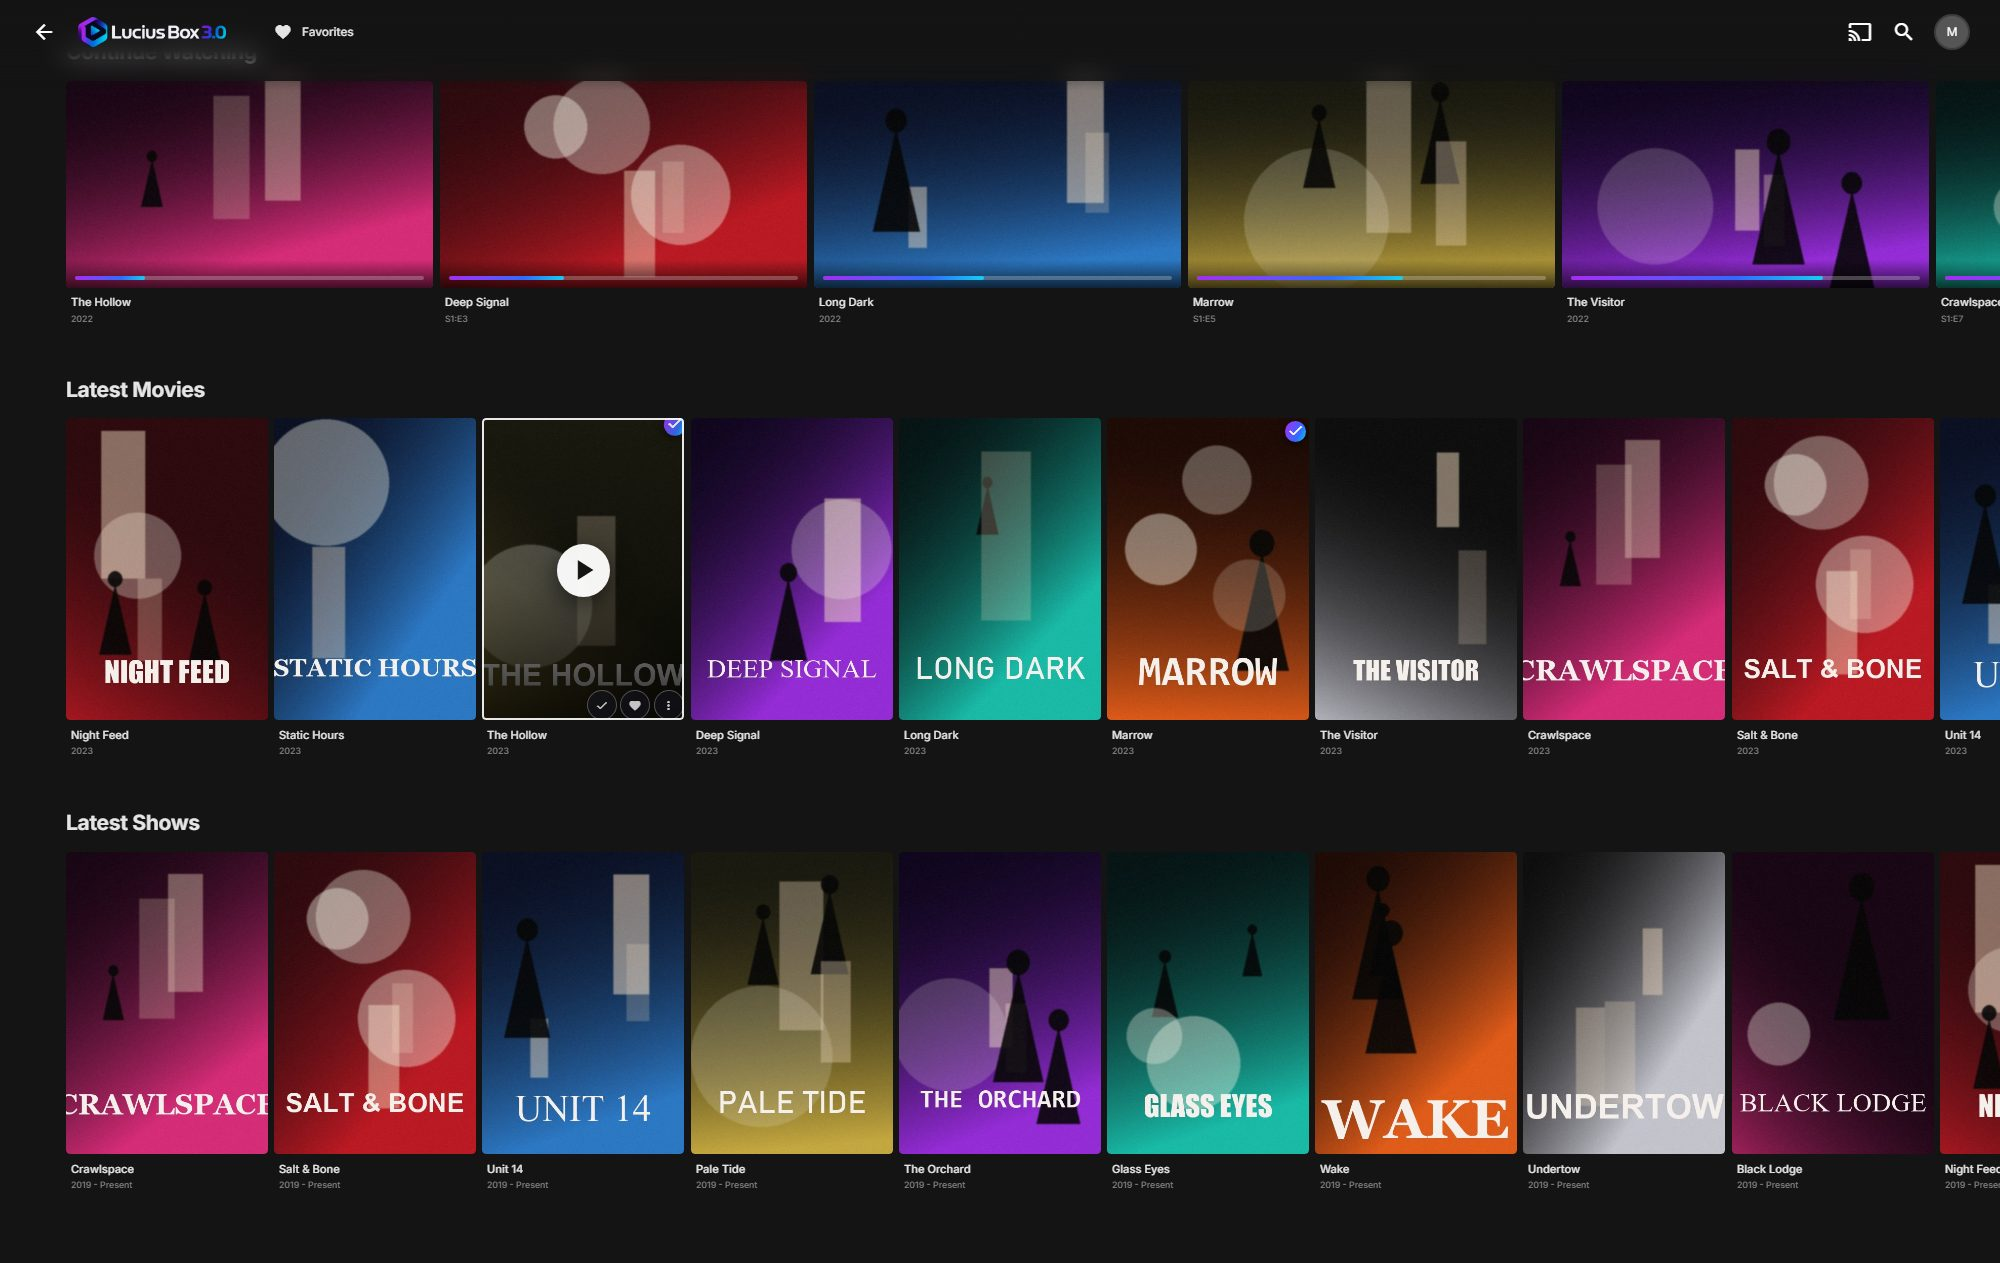
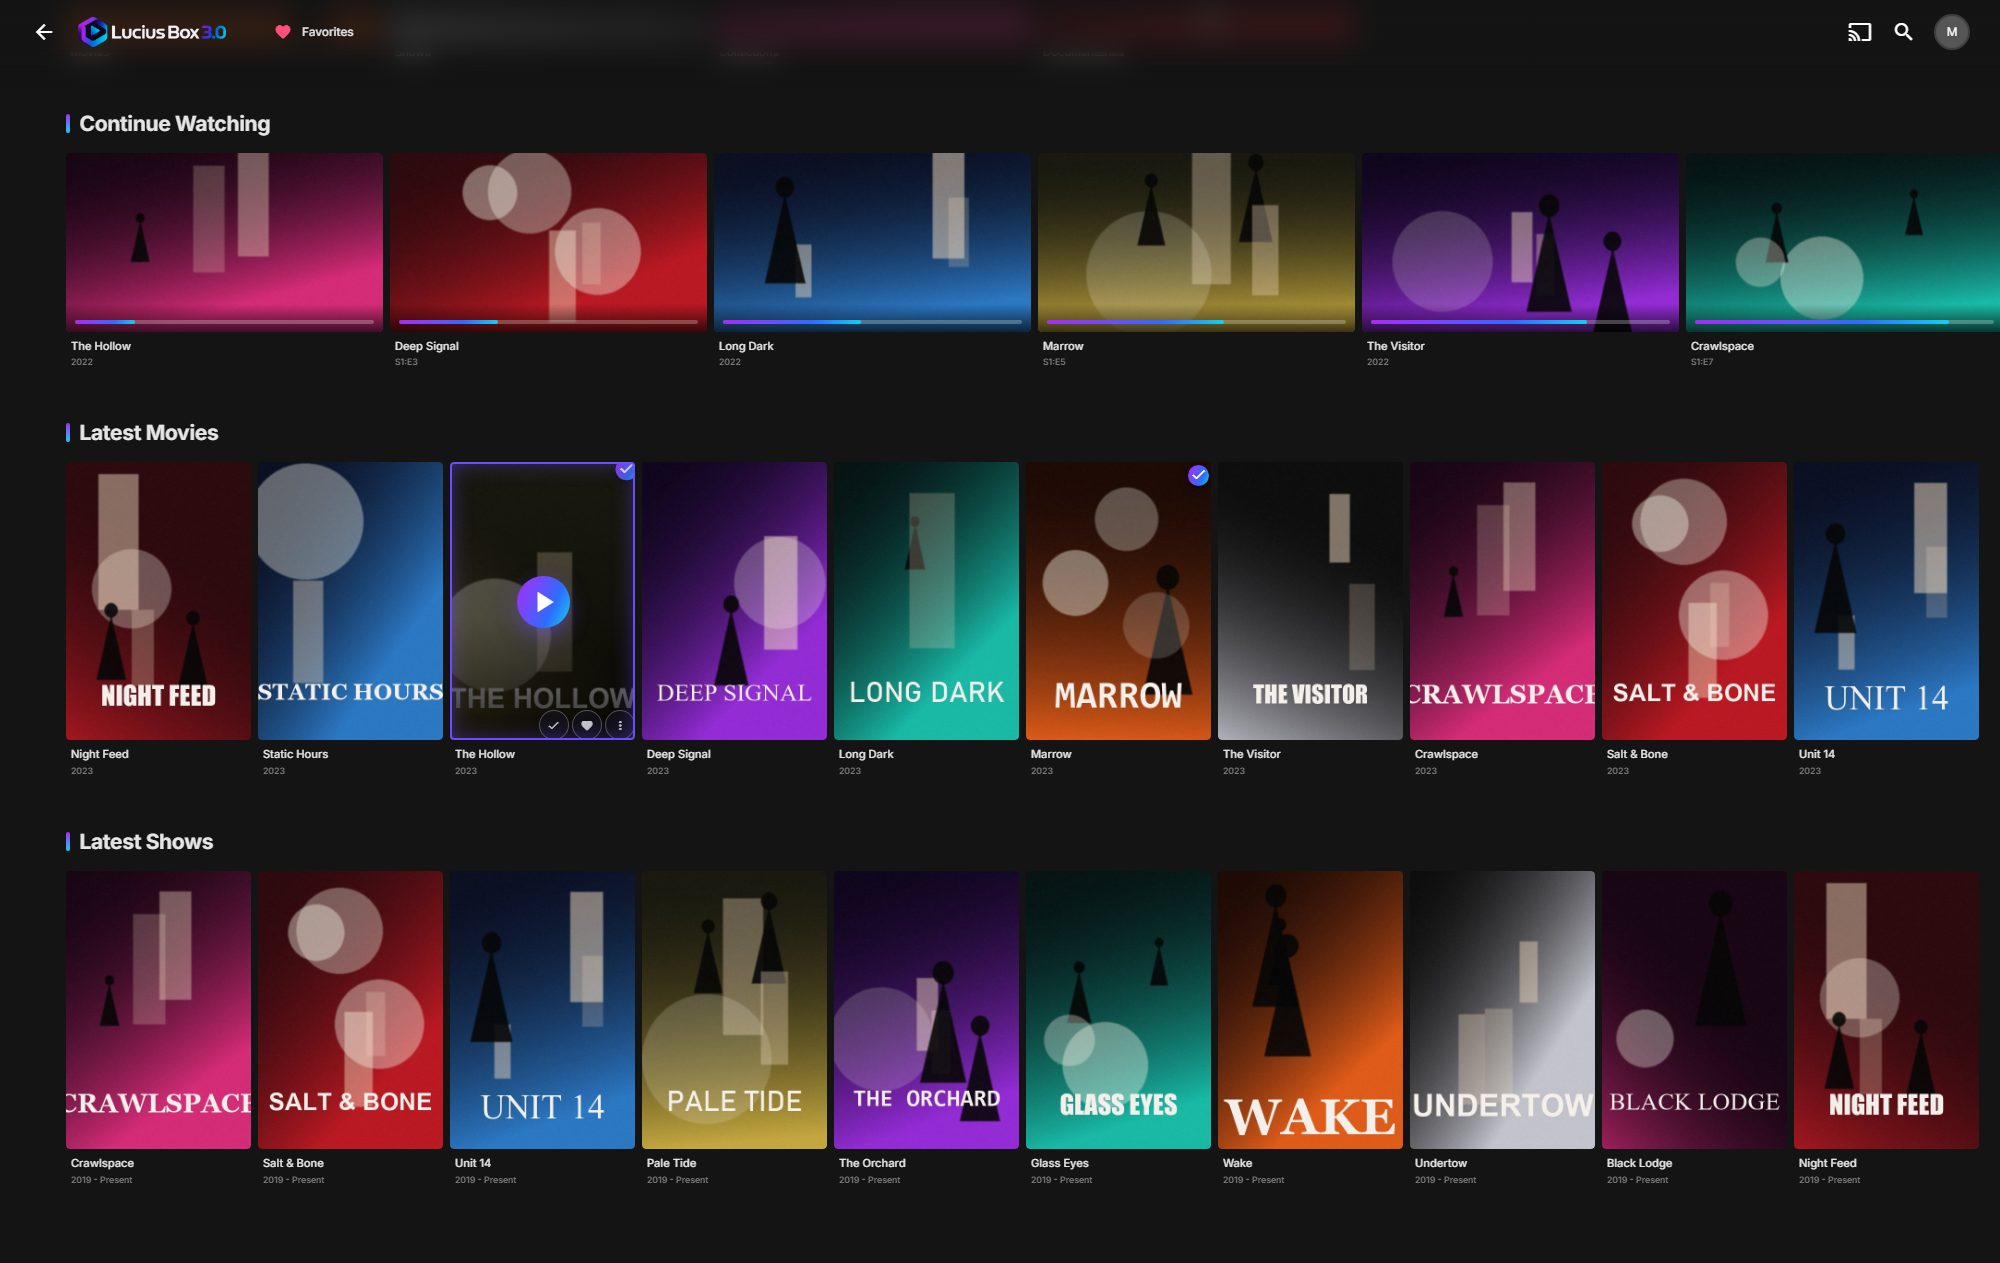
Smaller streaming-style cards, visible brand colour, no page backdrops
Rows show more, smaller cards. Jellyfin's blurred page backdrops are off
so the black stays flat. Purple/cyan now shows on play buttons, the hover
frame, row-title ticks, the active page and the scrollbar.

diff --git a/dist/luciusbox.css b/dist/luciusbox.css
@@ -1597,3 +1597,117 @@ a[data-role="button"]:hover {
     font-weight: 500;
     color: var(--lb-text);
 }
+
+/* ===========================================================================
+ * 15. Streaming-app sizing and brand colour
+ * ======================================================================== */
+
+/* Flat black behind everything: Jellyfin's page backdrops (the blurred movie
+   art behind the home screen) are switched off. Item pages keep their own. */
+.backdropContainer {
+    display: none !important;
+}
+
+.backgroundContainer.withBackdrop {
+    opacity: 1 !important;
+}
+
+/* Smaller cards, more per row, like a streaming app */
+.layout-desktop .overflowBackdropCard {
+    width: clamp(240px, 16.2vw, 380px) !important;
+}
+
+.layout-desktop .overflowPortraitCard:not(.personCard) {
+    width: clamp(140px, 9.6vw, 230px) !important;
+}
+
+.layout-desktop .overflowSquareCard {
+    width: clamp(140px, 10vw, 230px) !important;
+}
+
+/* Brand colour where it counts */
+
+/* Hover: a purple-to-cyan frame with a soft inner glow */
+@media (hover: hover) and (pointer: fine) {
+    .card:hover .cardScalable::after {
+        box-shadow: inset 0 0 0 2px var(--lb-violet), inset 0 0 22px rgba(109, 76, 255, 0.45) !important;
+    }
+}
+
+.card:focus-visible .cardScalable::after,
+.card.show-focus:focus .cardScalable::after,
+.layout-tv .card:focus .cardScalable::after {
+    box-shadow: inset 0 0 0 3px var(--lb-cyan), inset 0 0 22px rgba(20, 208, 240, 0.4) !important;
+}
+
+/* Play buttons: the logo's gradient */
+.cardOverlayFab-primary,
+.mainDetailButtons .btnPlay {
+    background: var(--lb-gradient) !important;
+    color: #fff !important;
+    box-shadow: 0 8px 24px -6px rgba(109, 76, 255, 0.7) !important;
+}
+
+.cardOverlayFab-primary .cardOverlayButtonIcon,
+.mainDetailButtons .btnPlay .detailButton-icon,
+.mainDetailButtons .btnPlay .detailButton-content {
+    color: #fff !important;
+}
+
+.cardOverlayFab-primary:hover,
+.mainDetailButtons .btnPlay:hover {
+    background: var(--lb-gradient) !important;
+    filter: brightness(1.15);
+}
+
+/* Round buttons light up in brand colour */
+.detailButton:hover {
+    border-color: var(--lb-cyan) !important;
+    color: var(--lb-cyan) !important;
+}
+
+.cardOverlayButton-br .cardOverlayButton:hover {
+    background: var(--lb-violet) !important;
+    border-color: var(--lb-violet) !important;
+}
+
+.cardOverlayButton-br .cardOverlayButton:hover .cardOverlayButtonIcon {
+    color: #fff !important;
+}
+
+/* Header: Favorites and the active page get a gradient underline */
+.MuiAppBar-root .MuiStack-root > a.MuiButton-root[href*="tab=1"] .MuiButton-startIcon {
+    color: #ff4d7d;
+}
+
+.MuiAppBar-root .MuiButton-textPrimary,
+.MuiAppBar-root .MuiButton-colorPrimary {
+    background-image: var(--lb-gradient) !important;
+    background-size: 100% 2px !important;
+    background-position: 0 100% !important;
+    background-repeat: no-repeat !important;
+    border-radius: 0 !important;
+}
+
+/* Row titles: a small gradient tick in front */
+.sectionTitle-cards::before {
+    content: "";
+    display: inline-block;
+    width: 4px;
+    height: 0.9em;
+    margin-right: 0.45em;
+    vertical-align: -0.08em;
+    border-radius: 2px;
+    background: linear-gradient(var(--lb-purple), var(--lb-cyan));
+}
+
+#loginPage .sectionTitle-cards::before,
+.layout-tv .sectionTitle-cards::before {
+    display: none;
+}
+
+/* Scrollbar thumb in brand colour */
+::-webkit-scrollbar-thumb {
+    background: linear-gradient(var(--lb-purple), var(--lb-cyan)) !important;
+    background-clip: padding-box !important;
+}

diff --git a/src/luciusbox.css b/src/luciusbox.css
@@ -1597,3 +1597,117 @@ a[data-role="button"]:hover {
     font-weight: 500;
     color: var(--lb-text);
 }
+
+/* ===========================================================================
+ * 15. Streaming-app sizing and brand colour
+ * ======================================================================== */
+
+/* Flat black behind everything: Jellyfin's page backdrops (the blurred movie
+   art behind the home screen) are switched off. Item pages keep their own. */
+.backdropContainer {
+    display: none !important;
+}
+
+.backgroundContainer.withBackdrop {
+    opacity: 1 !important;
+}
+
+/* Smaller cards, more per row, like a streaming app */
+.layout-desktop .overflowBackdropCard {
+    width: clamp(240px, 16.2vw, 380px) !important;
+}
+
+.layout-desktop .overflowPortraitCard:not(.personCard) {
+    width: clamp(140px, 9.6vw, 230px) !important;
+}
+
+.layout-desktop .overflowSquareCard {
+    width: clamp(140px, 10vw, 230px) !important;
+}
+
+/* Brand colour where it counts */
+
+/* Hover: a purple-to-cyan frame with a soft inner glow */
+@media (hover: hover) and (pointer: fine) {
+    .card:hover .cardScalable::after {
+        box-shadow: inset 0 0 0 2px var(--lb-violet), inset 0 0 22px rgba(109, 76, 255, 0.45) !important;
+    }
+}
+
+.card:focus-visible .cardScalable::after,
+.card.show-focus:focus .cardScalable::after,
+.layout-tv .card:focus .cardScalable::after {
+    box-shadow: inset 0 0 0 3px var(--lb-cyan), inset 0 0 22px rgba(20, 208, 240, 0.4) !important;
+}
+
+/* Play buttons: the logo's gradient */
+.cardOverlayFab-primary,
+.mainDetailButtons .btnPlay {
+    background: var(--lb-gradient) !important;
+    color: #fff !important;
+    box-shadow: 0 8px 24px -6px rgba(109, 76, 255, 0.7) !important;
+}
+
+.cardOverlayFab-primary .cardOverlayButtonIcon,
+.mainDetailButtons .btnPlay .detailButton-icon,
+.mainDetailButtons .btnPlay .detailButton-content {
+    color: #fff !important;
+}
+
+.cardOverlayFab-primary:hover,
+.mainDetailButtons .btnPlay:hover {
+    background: var(--lb-gradient) !important;
+    filter: brightness(1.15);
+}
+
+/* Round buttons light up in brand colour */
+.detailButton:hover {
+    border-color: var(--lb-cyan) !important;
+    color: var(--lb-cyan) !important;
+}
+
+.cardOverlayButton-br .cardOverlayButton:hover {
+    background: var(--lb-violet) !important;
+    border-color: var(--lb-violet) !important;
+}
+
+.cardOverlayButton-br .cardOverlayButton:hover .cardOverlayButtonIcon {
+    color: #fff !important;
+}
+
+/* Header: Favorites and the active page get a gradient underline */
+.MuiAppBar-root .MuiStack-root > a.MuiButton-root[href*="tab=1"] .MuiButton-startIcon {
+    color: #ff4d7d;
+}
+
+.MuiAppBar-root .MuiButton-textPrimary,
+.MuiAppBar-root .MuiButton-colorPrimary {
+    background-image: var(--lb-gradient) !important;
+    background-size: 100% 2px !important;
+    background-position: 0 100% !important;
+    background-repeat: no-repeat !important;
+    border-radius: 0 !important;
+}
+
+/* Row titles: a small gradient tick in front */
+.sectionTitle-cards::before {
+    content: "";
+    display: inline-block;
+    width: 4px;
+    height: 0.9em;
+    margin-right: 0.45em;
+    vertical-align: -0.08em;
+    border-radius: 2px;
+    background: linear-gradient(var(--lb-purple), var(--lb-cyan));
+}
+
+#loginPage .sectionTitle-cards::before,
+.layout-tv .sectionTitle-cards::before {
+    display: none;
+}
+
+/* Scrollbar thumb in brand colour */
+::-webkit-scrollbar-thumb {
+    background: linear-gradient(var(--lb-purple), var(--lb-cyan)) !important;
+    background-clip: padding-box !important;
+}
